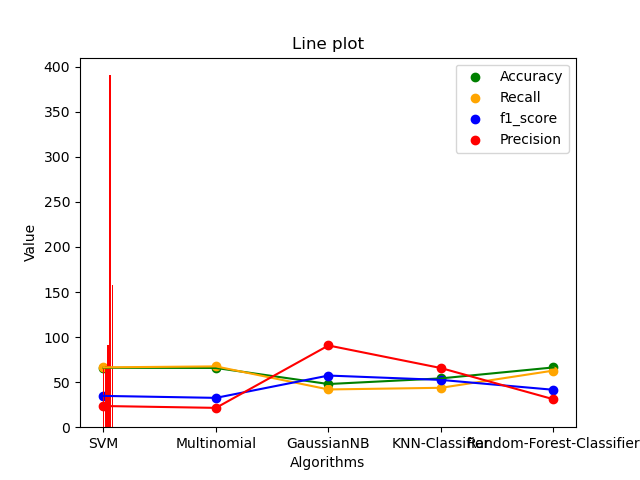
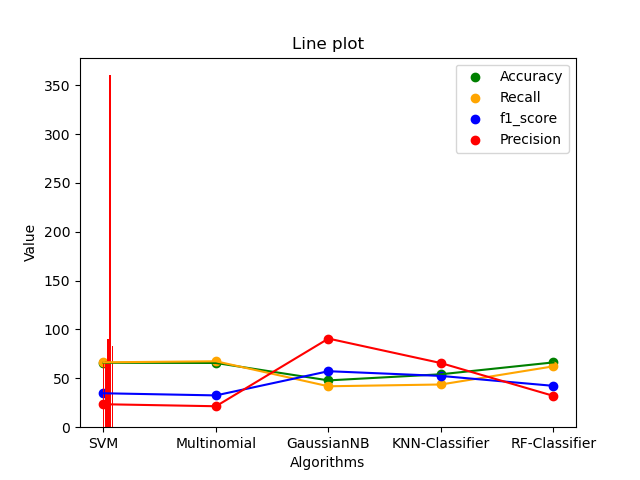
Minor Fix

diff --git a/sk_learn_algos.py b/sk_learn_algos.py
@@ -136,7 +136,7 @@ Plot(test_time_plot, label="Test-Time")
 ranges=[0,50,100,150,200]
 plt.xlabel('Algorithms')
 plt.ylabel('Value')
-plt.xticks(ranges,['SVM','Multinomial','GaussianNB','KNN-Classifier','Random-Forest-Classifier'])
+plt.xticks(ranges,['SVM','Multinomial','GaussianNB','KNN-Classifier','RF-Classifier'])
 
 plt.scatter(ranges, accuracy_plot, color='g',label="Accuracy")
 plt.scatter(ranges, recall_plot, color='orange',label="Recall")
